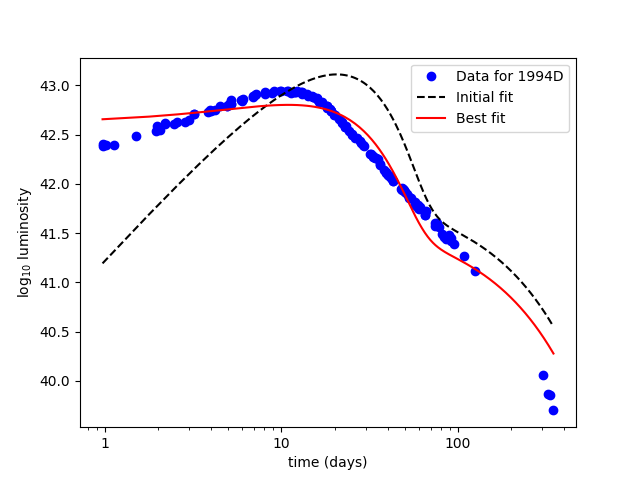
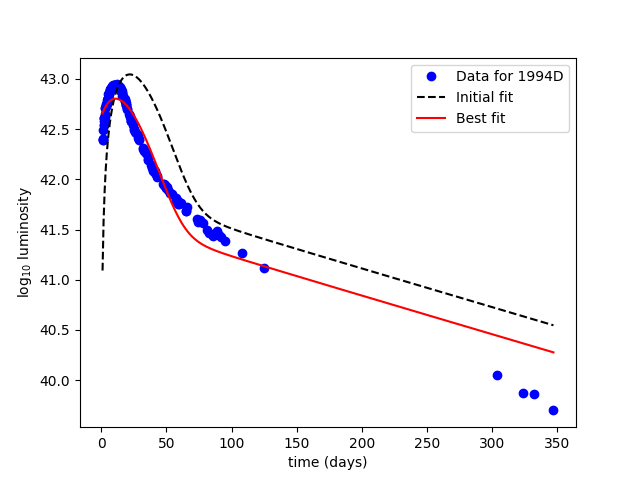
un-log x axis so results look less horrid
also removed old bad data results

diff --git a/main2.py b/main2.py
@@ -5,26 +5,21 @@ from random import uniform
 m_sun = 1.989e33  # g         | solar mass in grams
 
 files = [
-    "data/1998bw_bolom.txt",  # Type Ic
-    "data/2009jf_bolom.txt",  # Type Ib
-    "data/2011dh_bolom.txt",  # Type II
+
     "data/2011fe_bolom.txt",  # Type Ia
-    #"data/2002ap_nature.txt",
-    #"data/2006aj_nature.txt",
-    "data/1994I_bolom.txt",  # Type Ic
     "data/1994D_bolom.txt",   # Type Ia
     "data/1991T_bolom.txt",  # Type Ia
 ]
 
 for file in files:
-    m_init = 2*m_sun
-    vsc_init = 0.9e9
-    data_skip = 2
+    m_init = 1.4*m_sun
+    vsc_init = 0.6e9
+    data_skip = 1
     tries = 0
     while True:
         try:
             Fitter.fit(file, data_skip=data_skip, kappa_function=kappa_nagy,
-                       m_init=m_init, vsc_init=vsc_init, m_max=40*m_sun)
+                       m_init=m_init, vsc_init=vsc_init, m_max=2*m_sun)
         except OverflowError:  # something went bad
             if tries > 10:
                 print("Giving up...")

diff --git a/Fitter.py b/Fitter.py
@@ -98,7 +98,7 @@ def fit(data: str, data_skip: int, kappa_function: callable,
             kappa_func=kappa_function)
 
         fig, ax = plt.subplots(1, 1)
-        ax.semilogx(time / day2sec, log_lum, 'bo', label=f"Data for {data.split('/')[1].split('.')[0].split('_')[0]}")
+        ax.plot(time / day2sec, log_lum, 'bo', label=f"Data for {data.split('/')[1].split('.')[0].split('_')[0]}")
         ax.plot(smooth_times / day2sec, init_result, 'k--', label="Initial fit")
         ax.plot(smooth_times / day2sec, best_result, 'r-', label="Best fit")
         ax.set_xlabel("time (days)")

diff --git a/arnett_small_R.py b/arnett_small_R.py
@@ -31,7 +31,7 @@ c = 2.99792458e10  # cm /s    | speed of light in CGS
 
 def kappa_const(t):
     """placeholder"""
-    return 0.08
+    return 0.1
 
 
 def l_ni(t, m, v_sc, kappa: callable = kappa_const):
